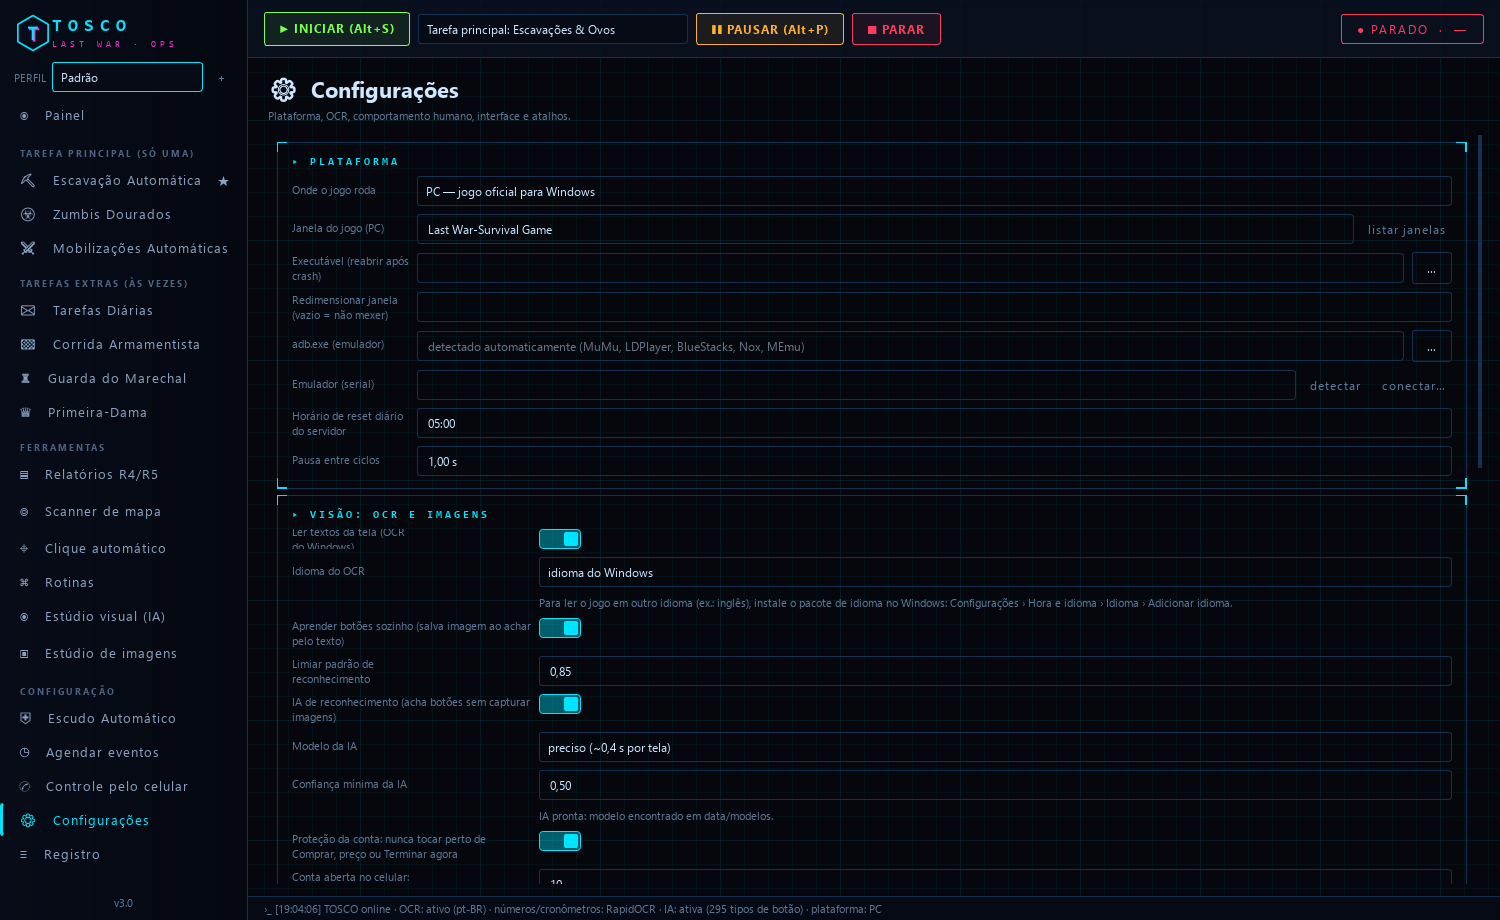
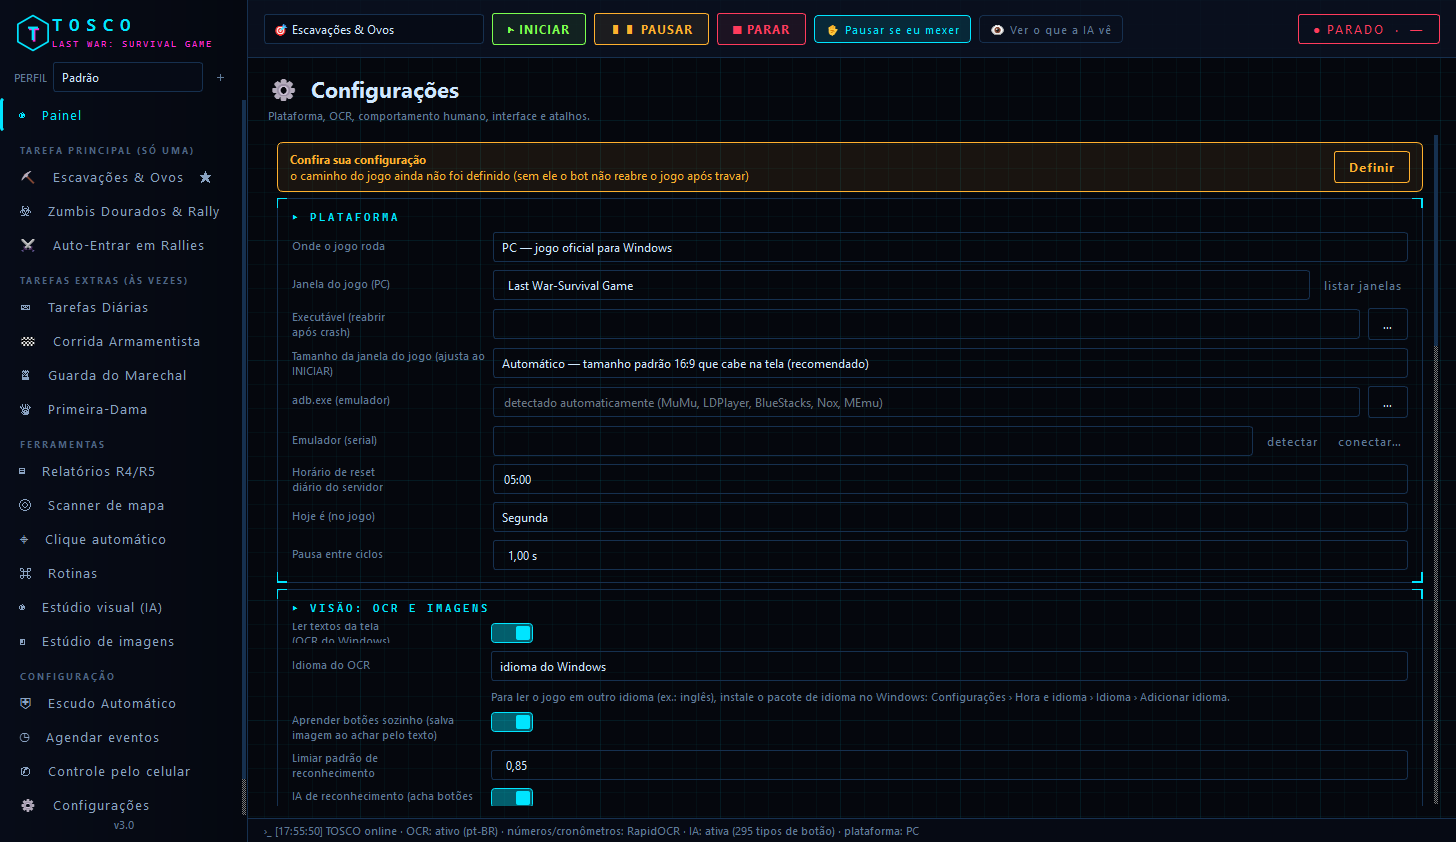
Prints novos do README sem nenhum dado de conta; tira a foto da base
- 7 prints refeitos na versão atual, renderizando o próprio programa com a captura do jogo bloqueada e a
  lista do radar vazia (painel, escavações, mobilizações, estúdio visual, estúdio de imagens,
  configurações, scanner de mapa). Conferidos um a um: só interface e ícones genéricos do jogo.
- Remove ia-ve-o-jogo.jpg: mostrava a base real (reconhecível) e o contador de diamantes.
- README/LEIA-ME: tabela com as funções atuais, janela "Ver o que a IA vê" e seção do Scanner de mapa.

Changed region(s): [[0.0, 0.0, 0.989, 1.0], [0.8963, 0.0, 0.989, 0.0618]]

diff --git a/LEIA-ME.md b/LEIA-ME.md
@@ -14,14 +14,16 @@ nenhum arquivo do jogo.
 
 | Grupo | Módulos |
 |---|---|
-| **Tarefa principal** (roda sem parar, escolha uma) | **Escavação Automática** — escavações, drone, ovos e festas da aliança · **Zumbis Dourados** · **Mobilizações Automáticas** — entra nos rallies dos chefes que você escolher, do maior nível que cabe no seu limite |
-| **Tarefas extras** (entram entre as rodadas) | Tarefas Diárias (loja grátis, trem, VIP, correio, baús) · Recursos · Ajuda e Tecnologia da Aliança · Esquadrão Secreto · Caminhões · Coleta no Mapa · Arena 3v3 · Corrida Armamentista · Guarda do Marechal · Primeira-Dama (cargos) |
-| **Ferramentas** | Relatórios R4/R5 em planilha · Scanner de mapa com botão **IR** · Clique automático · Rotinas que você mesmo escreve · **Estúdio visual (IA)** · **Estúdio de imagens** |
-| **Configuração** | Escudo automático · Agenda (liga, desliga ou roda módulos por dia e hora) · Controle pelo celular (Telegram) · Registro de tudo |
+| **Foco do bot** (roda sem parar, escolha um em 🎯) | **Escavações & Ovos** — escavações, drone, ovos, festas, fogos e presentes da aliança · **Zumbis Dourados & Rally** — caça, inicia e entra em mobilizações com um orçamento de energia · **Auto-Entrar em Rallies** — cada esquadrão com sua faixa de nível e posição na mobilização, listas de jogadores |
+| **Tarefas extras** (entram entre as rodadas) | Tarefas Diárias (loja, passes, trem, VIP, correio, energia grátis, baús) · Recursos (e buff do Ministro) · Hospital, Treino & Pesquisa · Heróis (só recrutamento grátis) · Aliança (ajuda, presentes, tecnologia, Estrela) · Missões Secretas (envio por raridade, Mega, aliados, Tesouro) · Caminhões · Coleta no Mapa · Arena · Corrida Armamentista · Guarda do Marechal · Primeira-Dama |
+| **Ferramentas** | Relatórios R4/R5 agendados (Excel, Texto, CSV) · **Scanner de mapa** com X/Y real e botão **IR** · Clique automático · Rotinas · **Estúdio visual (IA)** · **Estúdio de imagens** · 🩺 Teste de calibração · 📦 Pacote de diagnóstico |
+| **Configuração** | Escudo automático · Agenda (com horário aleatório e Evento Zumbis Dourados) · Controle pelo celular (Telegram) · Pausa quando você mexe no PC · Registro de tudo |
 
 Cada módulo tem dias da semana e horário próprios.
 
-![Escavação Automática](imagens/escavacao.png)
+![Escavações & Ovos](imagens/escavacao.png)
+
+![Auto-Entrar em Rallies](imagens/mobilizacoes.png)
 
 ---
 
@@ -51,9 +53,19 @@ Mostra, com **miniatura e nome em português**, cada uma das coisas que a IA rec
 - **Clique na foto** para ampliá-la ao lado de como aquilo está **no seu jogo agora**, e trocar a foto de
   exemplo pelo recorte do seu jogo — o recorte também vira a imagem do Estúdio de imagens.
 
+- **👁 Ver o que a IA vê** (barra de cima) liga uma janelinha que se atualiza a cada segundo com o que a IA
+  está reconhecendo — com o bot rodando, é o mesmo print que ele acabou de olhar.
+
 ![Estúdio visual (IA)](imagens/estudio-visual.png)
 
-![O que a IA vê no jogo](imagens/ia-ve-o-jogo.jpg)
+### Scanner de mapa
+
+Varre uma área em volta da sua cidade (ou de um X/Y escolhido): pula uma vez pela lupa do jogo, mede a escala e
+varre **arrastando** o mapa, gravando o **X/Y real** de missões secretas, caminhões, chefes e recursos. O **IR**
+leva direto até o item. A lista é acumulativa (some o que não é visto há horas). Pode também **compartilhar e
+coletar** as tarefas secretas do mapa com os critérios que você escolher.
+
+![Scanner de mapa](imagens/radar.png)
 
 ### Estúdio de imagens
 

diff --git a/README.md b/README.md
@@ -14,14 +14,16 @@ nenhum arquivo do jogo.
 
 | Grupo | Módulos |
 |---|---|
-| **Tarefa principal** (roda sem parar, escolha uma) | **Escavação Automática** — escavações, drone, ovos e festas da aliança · **Zumbis Dourados** · **Mobilizações Automáticas** — entra nos rallies dos chefes que você escolher, do maior nível que cabe no seu limite |
-| **Tarefas extras** (entram entre as rodadas) | Tarefas Diárias (loja grátis, trem, VIP, correio, baús) · Recursos · Ajuda e Tecnologia da Aliança · Esquadrão Secreto · Caminhões · Coleta no Mapa · Arena 3v3 · Corrida Armamentista · Guarda do Marechal · Primeira-Dama (cargos) |
-| **Ferramentas** | Relatórios R4/R5 em planilha · Scanner de mapa com botão **IR** · Clique automático · Rotinas que você mesmo escreve · **Estúdio visual (IA)** · **Estúdio de imagens** |
-| **Configuração** | Escudo automático · Agenda (liga, desliga ou roda módulos por dia e hora) · Controle pelo celular (Telegram) · Registro de tudo |
+| **Foco do bot** (roda sem parar, escolha um em 🎯) | **Escavações & Ovos** — escavações, drone, ovos, festas, fogos e presentes da aliança · **Zumbis Dourados & Rally** — caça, inicia e entra em mobilizações com um orçamento de energia · **Auto-Entrar em Rallies** — cada esquadrão com sua faixa de nível e posição na mobilização, listas de jogadores |
+| **Tarefas extras** (entram entre as rodadas) | Tarefas Diárias (loja, passes, trem, VIP, correio, energia grátis, baús) · Recursos (e buff do Ministro) · Hospital, Treino & Pesquisa · Heróis (só recrutamento grátis) · Aliança (ajuda, presentes, tecnologia, Estrela) · Missões Secretas (envio por raridade, Mega, aliados, Tesouro) · Caminhões · Coleta no Mapa · Arena · Corrida Armamentista · Guarda do Marechal · Primeira-Dama |
+| **Ferramentas** | Relatórios R4/R5 agendados (Excel, Texto, CSV) · **Scanner de mapa** com X/Y real e botão **IR** · Clique automático · Rotinas · **Estúdio visual (IA)** · **Estúdio de imagens** · 🩺 Teste de calibração · 📦 Pacote de diagnóstico |
+| **Configuração** | Escudo automático · Agenda (com horário aleatório e Evento Zumbis Dourados) · Controle pelo celular (Telegram) · Pausa quando você mexe no PC · Registro de tudo |
 
 Cada módulo tem dias da semana e horário próprios.
 
-![Escavação Automática](imagens/escavacao.png)
+![Escavações & Ovos](imagens/escavacao.png)
+
+![Auto-Entrar em Rallies](imagens/mobilizacoes.png)
 
 ---
 
@@ -51,9 +53,19 @@ Mostra, com **miniatura e nome em português**, cada uma das coisas que a IA rec
 - **Clique na foto** para ampliá-la ao lado de como aquilo está **no seu jogo agora**, e trocar a foto de
   exemplo pelo recorte do seu jogo — o recorte também vira a imagem do Estúdio de imagens.
 
+- **👁 Ver o que a IA vê** (barra de cima) liga uma janelinha que se atualiza a cada segundo com o que a IA
+  está reconhecendo — com o bot rodando, é o mesmo print que ele acabou de olhar.
+
 ![Estúdio visual (IA)](imagens/estudio-visual.png)
 
-![O que a IA vê no jogo](imagens/ia-ve-o-jogo.jpg)
+### Scanner de mapa
+
+Varre uma área em volta da sua cidade (ou de um X/Y escolhido): pula uma vez pela lupa do jogo, mede a escala e
+varre **arrastando** o mapa, gravando o **X/Y real** de missões secretas, caminhões, chefes e recursos. O **IR**
+leva direto até o item. A lista é acumulativa (some o que não é visto há horas). Pode também **compartilhar e
+coletar** as tarefas secretas do mapa com os critérios que você escolher.
+
+![Scanner de mapa](imagens/radar.png)
 
 ### Estúdio de imagens
 
